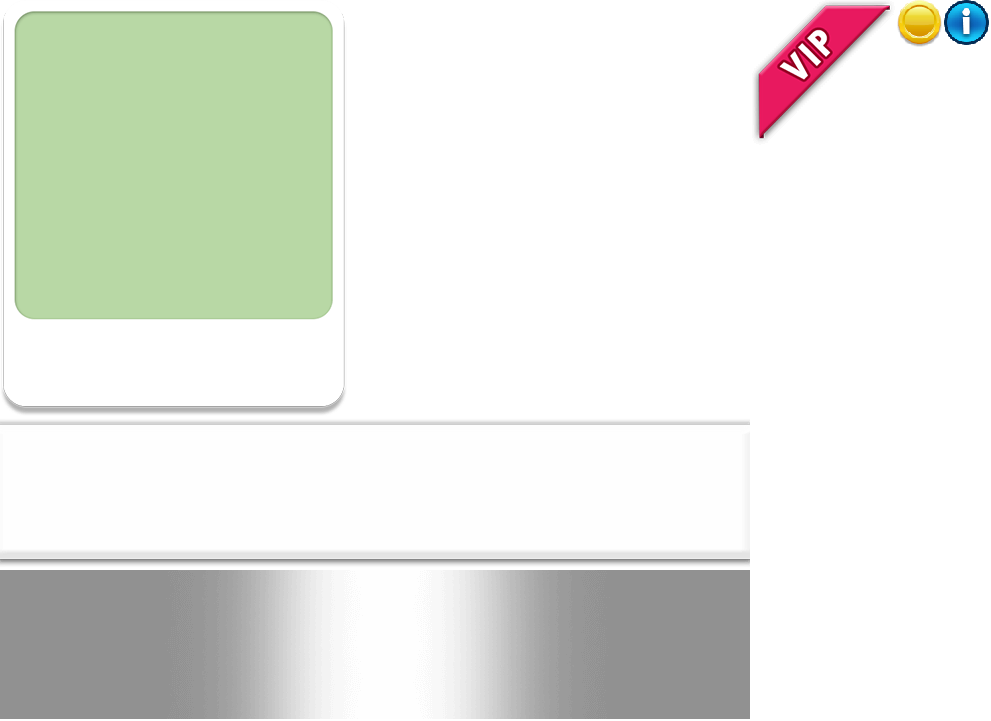
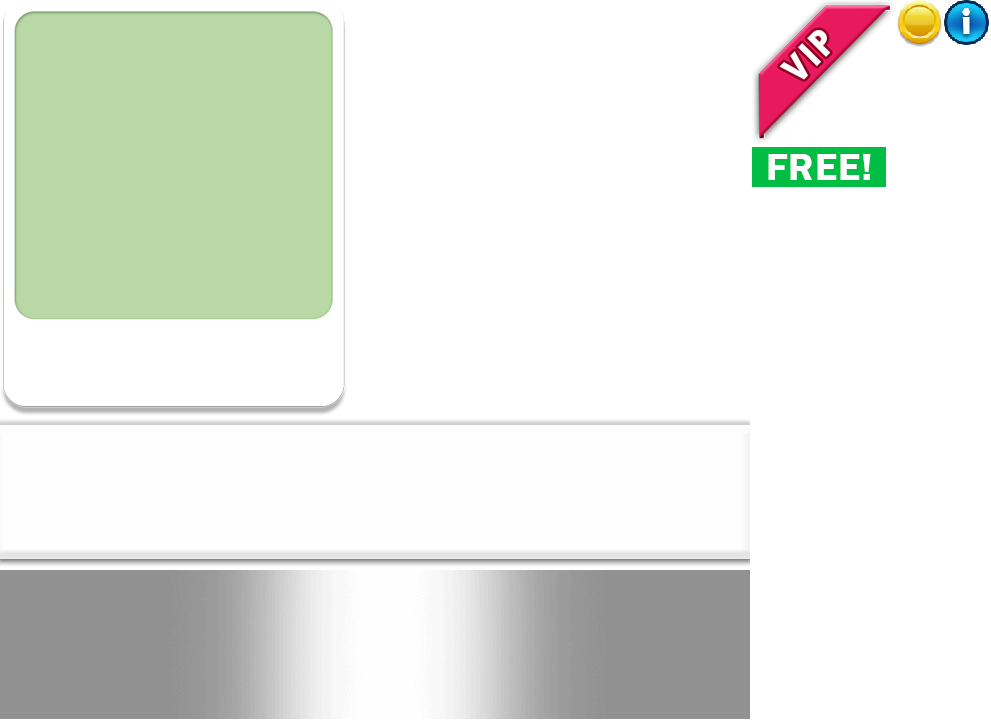
add free product

Changed region(s): [[0.7568, 0.1831, 0.9082, 0.2746]]

diff --git a/src/siene/lobby/product-item/product-item.component.ts b/src/siene/lobby/product-item/product-item.component.ts
@@ -4,7 +4,7 @@
  * @Author: Wayne Yu
  * @Date: 2021-06-04 10:57:48
  * @LastEditors: Wayne Yu
- * @LastEditTime: 2021-09-09 11:18:23
+ * @LastEditTime: 2021-09-09 15:38:36
  */
 import { Rectangle, BitmapData } from '../../../basicUI/basic-ui.module';
 import { ListItemComponent } from '../../../service/dinomao-game.module';
@@ -21,6 +21,7 @@ export class ProductItemComponent extends ListItemComponent {
   vipFlag!: BitmapData;
   coinIcon!: BitmapData;
   infoIcon!: BitmapData;
+  freeIcon!: BitmapData;
 
   textColor: number = 0;
   textSize: number = 32;
@@ -31,6 +32,8 @@ export class ProductItemComponent extends ListItemComponent {
   position: string = '';
   productId: string = '';
 
+  isFree: boolean = false;
+
   constructor() {
     super();
   }
@@ -39,6 +42,7 @@ export class ProductItemComponent extends ListItemComponent {
     this.productBg = this.textureData.getTexture( "bg0", 0, 0 );
     this.vipFlag = this.textureData.getTexture( "VIP_Subscript", -9, -11 );
     this.coinIcon = this.textureData.getTexture( "icon_coin", 10, 355 );
+    this.freeIcon = this.textureData.getTexture( "free", 15, 358 );
     this.infoIcon = this.textureData.getTexture( "btn_info", 292, 355 );
     this.productId = "productItem" + this.itemData.good_id;
 
@@ -46,6 +50,8 @@ export class ProductItemComponent extends ListItemComponent {
       left: ${this.index % 2 * 365 + 22}px;
       top: ${Math.floor(this.index/2) * 425 + 25}px;
     `
+
+    this.isFree = this.itemData.isFree == "1";
   }
 
   onImgload(){

diff --git a/src/siene/lobby/product-item/product-item.component.html b/src/siene/lobby/product-item/product-item.component.html
@@ -4,7 +4,7 @@
  * @Author: Wayne Yu
  * @Date: 2021-06-04 11:40:44
  * @LastEditors: Wayne Yu
- * @LastEditTime: 2021-09-09 11:18:46
+ * @LastEditTime: 2021-09-09 15:38:54
 -->
 <div class="productItem" [style]="position" #itemInList>
   <app-image [imgData]="productBg"></app-image>
@@ -12,8 +12,9 @@
       <img src={{itemData.img}} width="320px" height="308px" class="productImage" (load)="onImgload()">
     </div>
   <app-image [imgData]="vipFlag"></app-image>
-  <app-image [imgData]="coinIcon"></app-image>
+  <app-image [imgData]="coinIcon" *ngIf="!isFree"></app-image>
   <app-image [imgData]="infoIcon"></app-image>
-  <app-text-field [positionRect]="priceRect" [text]="''+itemData.price" [color]="textColor" [size]="textSize" [bold]="true" [align]="textAlign"></app-text-field>
+  <app-image [imgData]="freeIcon" *ngIf="isFree"></app-image>
+  <app-text-field [positionRect]="priceRect" [text]="''+itemData.price" [color]="textColor" [size]="textSize" [bold]="true" [align]="textAlign" *ngIf="!isFree"></app-text-field>
   <app-text-field [positionRect]="nameRect" [text]="itemData.name" [color]="textColor" [size]="textSize" [bold]="true" [align]="textAlign"></app-text-field>
 </div>

diff --git a/src/service/gameData/goods-data.ts b/src/service/gameData/goods-data.ts
@@ -4,7 +4,7 @@
  * @Author: Wayne Yu
  * @Date: 2021-05-21 14:00:01
  * @LastEditors: Wayne Yu
- * @LastEditTime: 2021-07-14 14:10:12
+ * @LastEditTime: 2021-09-09 15:29:30
  */
 export interface GoodsData {
   img: string,
@@ -18,5 +18,6 @@ export interface GoodsData {
   price: number,
   name: string,
   mac_id: number,
-  imgLoaded: boolean
+  imgLoaded: boolean,
+  isFree: string
 }
